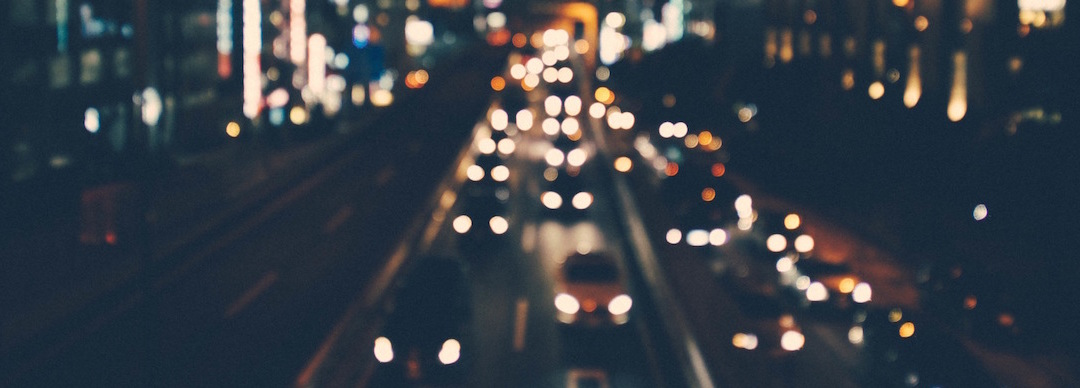
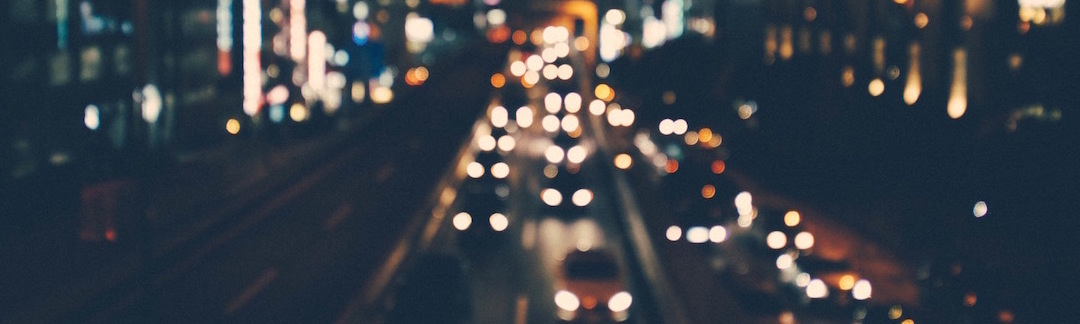
third commit

diff --git a/team.html b/team.html
@@ -86,7 +86,7 @@
 
 
       <header>
-          <img id="image" class="bg" src="img/parkingpic2.jpg" style= "width:100%"; position="abolsute"; left:"0"; top:"0"; "z-index:0;">
+          <img id="image" class="bg" src="img/blurrytraffic.jpg" style= "width:100%"; position="abolsute"; left:"0"; top:"0"; "z-index:0;">
 
       </header>
     <br>
@@ -102,23 +102,49 @@
           </div>
        
         
-
+<!-- As project leader, Shank works on the hardware & server component of the project. His
+            job is to ensure the Raspberry Pi is hooked up to the server and running efficiently. Shank is a freshman at UIUC,
+           and his major is Computer Engineering. -->
      
 
     <hr><br>
 
 
-          <div class="row">
-      <div class="large-12 columns">
-          <ul class="medium-block-grid-3 small-block-grid-2">
-            <li><img src="img/sfbook.jpg" alt="Browsing for books. "></li>
-            <li><img src="img/sfdog.jpg" alt="Dogs in the park. "></li>
-            <li><img src="img/sfbike.jpg" alt="Biking in San Francisco. "></li>
-            <li><img src="img/sfcafe.jpg" alt="People in cafe. "></li>
-            <li><img src="img/sfmarket.jpg" alt="Farmer's market. "></li>
-            <li><img src="img/sfrocks.jpg" alt="Hot rock massage. "></li>
-          </ul>
-        </div><!-- end large-9 -->
+      <div class="row">
+        <div class="medium-4 large-4 columns text-center">
+          <img src="img/shank.jpg">
+          <div class="text-center"><h4><br>Shank Saxena</h4></div>
+          <p class="text-left"><br>Lorem ipsum dolor sit amet, consectetur adipisicing elit. Voluptate dicta hic ut suscipit molestias numquam ab unde nulla repellendus incidunt, magnam reiciendis odio, dolorum labore asperiores odit assumenda ex delectus repellendus.</p>
+        </div>
+        <div class="medium-4 large-4 columns text-center">
+          <img src="img/shiming.jpg">
+          <div class="text-center"><h4><br>Shiming Song</h4></div>
+          <p class="text-left"><br>Lorem ipsum dolor sit amet, consectetur adipisicing elit. Voluptate dicta hic ut suscipit molestias numquam ab unde nulla repellendus incidunt, magnam reiciendis odio, dolorum labore asperiores odit assumenda ex delectus repellendus.</p>
+        </div>
+        <div class="medium-4 large-4 columns text-center">
+          <img src="img/lucas.jpg">
+          <div class="text-center"><h4><br>Lucas Bracher</h4></div>
+          <p class="text-left"><br>Lorem ipsum dolor sit amet, consectetur adipisicing elit. Voluptate dicta hic ut suscipit molestias numquam ab unde nulla repellendus incidunt, magnam reiciendis odio, dolorum labore asperiores odit assumenda ex delectus repellendus.</p>
+        </div>
+      </div>
+
+<br>
+      <div class="row">
+        <div class="medium-4 large-4 columns text-center">
+          <img src="img/sonya.jpg">
+          <div class="text-center"><h4><br>Sonya Khan</h4></div>
+          <p class="text-left"><br>Lorem ipsum dolor sit amet, consectetur adipisicing elit. Voluptate dicta hic ut suscipit molestias numquam ab unde nulla repellendus incidunt, magnam reiciendis odio, dolorum labore asperiores odit assumenda ex delectus repellendus.</p>
+        </div>
+        <div class="medium-4 large-4 columns text-center">
+          <img src="img/jason.jpg">
+          <div class="text-center"><h4><br>Jason Blum</h4></div>
+          <p class="text-left"><br>Lorem ipsum dolor sit amet, consectetur adipisicing elit. Voluptate dicta hic ut suscipit molestias numquam ab unde nulla repellendus incidunt, magnam reiciendis odio, dolorum labore asperiores odit assumenda ex delectus repellendus.</p>
+        </div>
+        <div class="medium-4 large-4 columns text-center">
+          <img src="img/anirudh.jpg">
+          <div class="text-center"><h4><br>Anirudh Viswanath</h4></div>
+          <p class="text-left"><br>Lorem ipsum dolor sit amet, consectetur adipisicing elit. Voluptate dicta hic ut suscipit molestias numquam ab unde nulla repellendus incidunt, magnam reiciendis odio, dolorum labore asperiores odit assumenda ex delectus repellendus.</p>
+        </div>
       </div>
 
     

diff --git a/index.html b/index.html
@@ -17,15 +17,50 @@
 
 
 
-  <nav class="top-bar" style= "background-color: #FFFFFF;" data-topbar>
+  <nav class="top-bar" data-topbar role="navigation" style= "background-color: #FFFFFF;">
         <ul class="title-area" >
-          <li class="name">
-              
+          <li class="name">  
             <img src="img/logo.png">
           </li>
           <li class="toggle-topbar menu-icon" ><a href="#">Menu</a></li>
         </ul>
       </nav>
+
+
+
+<!-- <div class="fixed">
+  
+ <nav class="top-bar" data-topbar role="navigation" style="background-color: #FFFFFF;">
+  <ul class="title-area">
+    <li class="name">
+      <img src="img/logo.png">
+    </li>
+     <!-- Remove the class "menu-icon" to get rid of menu icon. Take out "Menu" to just have icon alone -->
+<!--     <li class="toggle-topbar menu-icon"><a href="#"><span>Menu</span></a></li>
+  </ul>
+
+  <section class="top-bar-section">
+    <!-- Right Nav Section -->
+    <!-- <ul class="right">
+      <li class="active"><a href="#">Right Button Active</a></li>
+      <li class="has-dropdown">
+        <a href="#">Right Button Dropdown</a>
+        <ul class="dropdown">
+          <li><a href="#">First link in dropdown</a></li>
+          <li class="active"><a href="#">Active link in dropdown</a></li>
+        </ul>
+      </li>
+    </ul> -->
+
+    <!-- Left Nav Section -->
+    <!-- <ul class="left">
+      <li><a href="#">Left Nav Button</a></li>
+    </ul>
+  </section>
+</nav>
+</div> -->
+
+     
 
 
 

diff --git a/css/index.css b/css/index.css
@@ -1,3 +1,57 @@
 #tripleimage{
 	    padding-top: 100px;
 }
+
+.example-orbit img {
+  width: 100%;
+  height: auto;
+}
+
+/*.title{
+  z-index:2;
+  position: absolute;
+  top: 20px;
+  color: white;
+  margin-left: 10px;
+  left: 0;
+}*/
+
+body{
+	width: 100%;
+	margin: auto;
+}
+
+.container{
+	width: 960px;
+	margin: 0 auto;
+}
+
+.header{
+	background: #6396bc;
+	width: 100%;
+	top: 0;
+	position: fixed;
+}
+
+.logo{
+	float: left;
+	font-family: "Helvetica";
+	font-size: 15px;
+}
+
+.nav{
+	float: right;
+}
+
+a{
+	text-decoration: none;
+	color: #fff;
+}
+
+li{
+	font-family: "Helvetica";
+	list-style: none;
+	float: right;
+	margin-left: 15px;
+	padding-top: 15px;
+}

diff --git a/css/foundation.css b/css/foundation.css
@@ -1,8 +1,47 @@
-.example-orbit img {
-  width: 100%;
-  height: auto;
+.secondrow{
+  padding-top: 0px;
 }
 
+
+body{
+  width: 100%;
+  margin: auto;
+}
+
+.container{
+  width: 960px;
+  margin: 0 auto;
+}
+
+.header{
+  background: #6396bc;
+  width: 100%;
+  top: 0;
+  position: fixed;
+}
+
+.logo{
+  float: left;
+  font-family: "Helvetica";
+  font-size: 15px;
+}
+
+.nav{
+  float: right;
+}
+
+a{
+  text-decoration: none;
+  color: #fff;
+}
+
+li{
+  font-family: "Helvetica";
+  list-style: none;
+  float: right;
+  margin-left: 15px;
+  padding-top: 15px;
+}
 
 
 /*.parallax {
